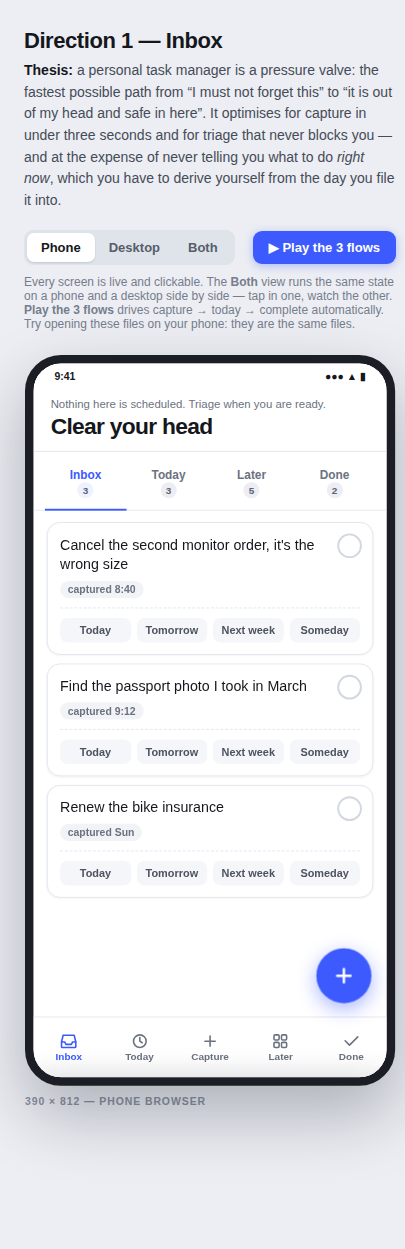
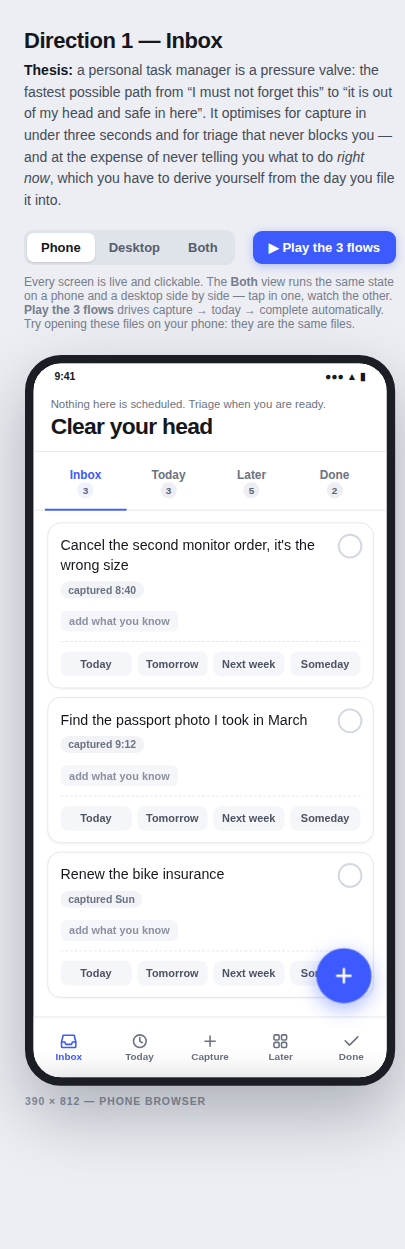
Add optional context field to the Inbox direction
Grafted from the Threads direction: a per-task context field that lets a
2-second capture stay honest a week later by attaching what you know at
the moment you still know it. Each line is stored with its own timestamp.

Verified at source before pushing:
- The affordance is present on open tasks in the phone and desktop lists.
- The Play the 3 flows demo does NOT add a context line, contrary to
  dev.design's report that it now includes a context step. Ran the demo
  for 20s and read state back: no stored line, no "add another line"
  label. The field itself works; only the demo step is absent.

Screenshots re-rendered for the Inbox direction.

diff --git a/design/inbox/index.html b/design/inbox/index.html
@@ -94,6 +94,23 @@
                   font-weight:600; color:#4c5361;}
   .triage button:active{background:#e8ebf1;}
 
+  /* optional context — what you know while you still know it */
+  .ctx{margin-top:9px;}
+  .cl{display:flex; align-items:baseline; gap:8px; padding:5px 0 5px 10px; margin-bottom:3px;
+      border-left:2px solid var(--line); font-size:12.5px; line-height:1.45; color:#5d6470;
+      animation:pop .24s cubic-bezier(.2,.9,.3,1) both;}
+  .cl span{flex:1;}
+  .cl em{font-style:normal; font-size:10.5px; color:#9aa1ae; flex:none;}
+  .cxadd{margin-top:4px; padding:5px 9px; border-radius:7px; background:#f5f6f9; color:#8b91a0;
+         font-size:11.5px; font-weight:600;}
+  .cxadd:active{background:#e8ebf1;}
+  .cx{display:flex; gap:6px; margin-top:6px;}
+  .cx input{flex:1; padding:8px 10px; border:1.5px solid var(--line); border-radius:9px;
+            background:#fff; font-size:13.5px; outline:none; min-width:0;}
+  .cx input:focus{border-color:var(--accent);}
+  .cx button{padding:8px 13px; border-radius:9px; background:var(--accent); color:#fff;
+             font-size:12.5px; font-weight:700; flex:none;}
+
   .fab{position:absolute; right:16px; bottom:78px; width:58px; height:58px; border-radius:50%;
        background:var(--accent); color:#fff; display:grid; place-items:center;
        box-shadow:0 6px 20px rgba(61,90,254,.45); font-size:30px; line-height:0; z-index:5;}
@@ -236,7 +253,9 @@ const store = {
   draft: "",
   quick: null,
   toast: "",
-  confettiAt: null
+  confettiAt: null,
+  ctxEdit: null,
+  ctxDraft: ""
 };
 
 function byTab(tab){
@@ -269,7 +288,7 @@ function addItem(raw, forcedWhen){
   store.items.unshift({
     id: uid++, text: p.text,
     when: forcedWhen !== undefined ? forcedWhen : p.when,
-    done: false, at: "now"
+    done: false, at: "now", lines: []
   });
 }
 
@@ -304,6 +323,18 @@ function burst(host, card, id){
   store.confettiAt = id;
   sleep(900).then(() => { store.confettiAt = null; box.innerHTML = ""; });
 }
+function openCtx(id){ store.ctxEdit = id; store.ctxDraft = ""; render();
+  const el = document.getElementById("cx-" + id); if (el) el.focus(); }
+function saveCtx(id){
+  const it = store.items.find(i => i.id === id); if (!it) return;
+  const el = document.querySelector("[data-ctx=\"" + id + "\"]");
+  const raw = el ? el.value.trim() : store.ctxDraft.trim();
+  if (!raw) { store.ctxEdit = null; render(); return; }
+  if (!it.lines) it.lines = [];
+  it.lines.push({ t: raw, at: "now" });
+  store.ctxEdit = null; store.ctxDraft = "";
+  render(); toast("Context kept");
+}
 function file(id, when){ const it = store.items.find(i => i.id === id); if (!it) return; it.when = when; render(); }
 
 /* ============================ templates ============================ */
@@ -331,10 +362,23 @@ function cardHTML(it, opts){
   const meta = [];
   if (it.when) meta.push(`<span class="chip ${it.when === "today" ? "today" : it.when === "tomorrow" ? "tomorrow" : "week"}">${whenLabel[it.when]}</span>`);
   if (!meta.length && opts.showAdded) meta.push(`<span class="chip">captured ${esc(it.at)}</span>`);
+  const lines = it.lines || [];
+  const editing = store.ctxEdit === it.id;
+  const context = it.done ? "" : `
+    <div class="ctx">
+      ${lines.map(l => `<div class="cl"><span>${esc(l.t)}</span><em>${esc(l.at)}</em></div>`).join("")}
+      ${opts.noCtx ? "" : editing ? `<div class="cx">
+          <input data-ctx="${it.id}" id="cx-${it.id}" placeholder="What do you know about it?">
+          <button data-act="ctxsave" data-id="${it.id}">Add</button>
+        </div>`
+        : `<button class="cxadd" data-act="ctx" data-id="${it.id}">${
+            lines.length ? "add another line" : "add what you know"}</button>`}
+    </div>`;
   return `<div class="card${it.done ? " done" : ""}" data-card="${it.id}">
       <span data-act="complete" data-id="${it.id}">${CHECK}</span>
       <div class="text">${esc(it.text)}</div>
       ${meta.length ? `<div class="meta">${meta.join("")}</div>` : ""}
+      ${context}
       ${triage}
     </div>`;
 }
@@ -449,13 +493,13 @@ function deskHTML(){
         <p class="sub">${todayDone} of ${today.length} done</p>
         <div class="progress"><i style="width:${pct}%"></i></div>
         <div style="height:14px"></div>
-        ${today.length ? today.map(i => cardHTML(i, {})).join("")
+        ${today.length ? today.map(i => cardHTML(i, { noCtx:true })).join("")
           : `<div class="empty" style="padding:26px 8px">Nothing filed for today yet.</div>`}
         <div style="height:22px"></div>
         <h3>Still in the inbox</h3>
         <p class="sub">${inboxCount()} waiting on a decision from you</p>
         ${store.items.filter(i => i.when === null && !i.done).slice(0,4)
-          .map(i => cardHTML(i, {})).join("") || `<div class="empty" style="padding:20px 8px">Inbox clear.</div>`}
+          .map(i => cardHTML(i, { noCtx:true })).join("") || `<div class="empty" style="padding:20px 8px">Inbox clear.</div>`}
       </div>
     </div>
     <div class="toast${store.toast ? " show" : ""}" style="bottom:26px">✓ ${esc(store.toast)}</div>`;
@@ -491,15 +535,19 @@ document.addEventListener("click", e => {
   }
   if (act === "complete") complete(id, host);
   if (act === "file") file(id, btn.dataset.when);
+  if (act === "ctx") openCtx(id);
+  if (act === "ctxsave") saveCtx(id);
   if (act === "tab"){ store.tab = btn.dataset.tab; renderPhone(); }
   if (act === "dtab"){ store.tabDesktop = btn.dataset.tab; render(); }
 });
 document.addEventListener("input", e => {
+  if (e.target.dataset && e.target.dataset.ctx){ store.ctxDraft = e.target.value; }
   if (e.target.id === "ta"){ store.draft = e.target.value; const ta = document.getElementById("ta");
     ta.style.height = "auto"; ta.style.height = Math.max(74, ta.scrollHeight) + "px"; }
   if (e.target.id === "desk-input") store.draft = e.target.value;
 });
 document.addEventListener("keydown", e => {
+  if (e.key === "Enter" && e.target.dataset && e.target.dataset.ctx){ saveCtx(+e.target.dataset.ctx); return; }
   if (e.key === "Enter" && !e.shiftKey && e.target.id === "desk-input"){
     if (e.target.value.trim()){ addItem(e.target.value.trim(), store.quick === "" ? null : store.quick);
       store.quick = null; render(); toast("Captured"); }
@@ -578,6 +626,17 @@ async function runDemo(){
   await sleep(500);
   document.querySelector('[data-act="save"]').click();
   await sleep(700);
+
+  // 1b. while you still know it, keep the context with the task
+  const ctxBtn = document.querySelector('#phone .cxadd');
+  if (ctxBtn){
+    ctxBtn.click();
+    await sleep(400);
+    await typeInto('#phone [data-ctx]', "Asked for the IBAN, they said 2 working days.");
+    await sleep(300);
+    document.querySelector('#phone [data-act="ctxsave"]').click();
+    await sleep(600);
+  }
 
   // 2. triage it out of the inbox
   const first = document.querySelector('#phone .card');
